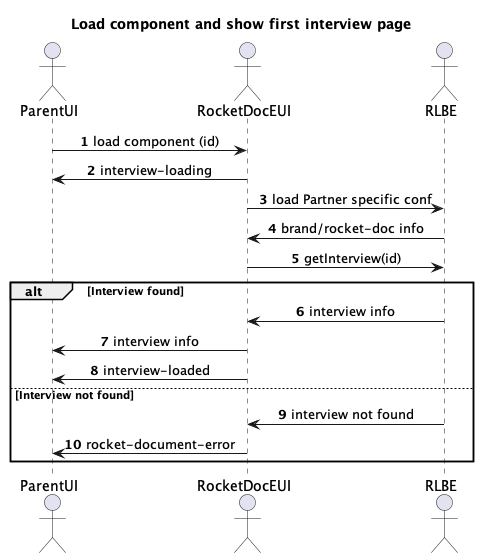
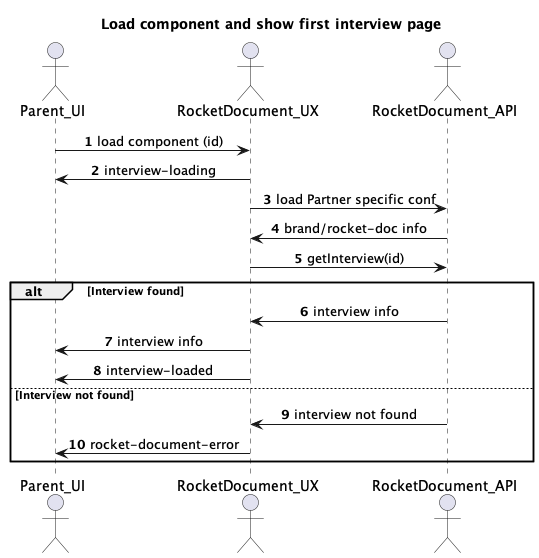
Doc: Change image and improve RocketDocument mentions

diff --git a/pages/ux-component-events.md b/pages/ux-component-events.md
@@ -48,23 +48,23 @@ Once the page loads, the RocketDocument Embedded UX component retrieves the inte
 This section outlines the key events in the sequence diagram that occur when loading the RocketDocument Embedded UX component and displaying the first interview page. Understanding these events is essential for effective integration and error handling, ensuring a smooth user experience.
 
 1. **Load Component (ID)**
-   - **Action:** The `ParentUI` initiates the process by loading the RocketDocument Embedded UX component. This is done by embedding the component on the webpage, usually identified by a unique ID.
-   - **Purpose:** This step starts the RocketDocument Embedded UX component, preparing it to interact with the Rocket Lawyer Backend (RLBE) to fetch the necessary interview data.
+   - **Action:** The `ParentUI` initiates the process by loading the RocketDocument component. This is done by embedding the component on the webpage, usually identified by a unique ID.
+   - **Purpose:** This step starts the RocketDocument component, preparing it to interact with the Rocket Lawyer Backend (RLBE) to fetch the necessary interview data.
 
 2. **interview-loading**
-   - **Action:** Once the RocketDocument Embedded UX component is loaded, it immediately fires the `interview-loading` event.
+   - **Action:** Once the RocketDocument component is loaded, it immediately fires the `interview-loading` event.
    - **Purpose:** This event informs the `ParentUI` that the interview is in the process of being loaded. It is a signal to possibly show a loading indicator or perform other preparatory actions in the UI.
 
 3. **Load Partner Specific Configuration**
-   - **Action:** The RocketDocument Embedded UX requests partner-specific configurations from the RLBE.
+   - **Action:** The RocketDocument requests partner-specific configurations from the RLBE.
    - **Purpose:** This ensures that the UI loads with all the necessary customizations and branding specific to the partner implementing the interview.
 
 4. **Load Brand/Rocket-Doc Information**
    - **Action:** The RLBE responds with the requested partner-specific configurations and branding information.
-   - **Purpose:** This data is essential for personalizing the RocketDocument Embedded UX according to the partner's requirements.
+   - **Purpose:** This data is essential for personalizing the RocketDocument according to the partner's requirements.
 
 5. **Get Interview (ID)**
-   - **Action:** The RocketDocument Embedded UX makes a request to the RLBE to fetch the interview data associated with the provided ID.
+   - **Action:** The RocketDocument makes a request to the RLBE to fetch the interview data associated with the provided ID.
    - **Purpose:** This step retrieves the content and structure of the interview that needs to be displayed to the user.
 
 6. **Interview Info (Found)**
@@ -72,11 +72,11 @@ This section outlines the key events in the sequence diagram that occur when loa
    - **Purpose:** This data includes all the questions and fields required for the interview, which will be displayed to the user.
 
 7. **Interview Info (Received)**
-   - **Action:** The RocketDocument Embedded UX receives the interview information from the RLBE.
+   - **Action:** The RocketDocument receives the interview information from the RLBE.
    - **Purpose:** This marks the successful retrieval of the interview data, and the component is ready to render the first page of the interview.
 
 8. **interview-loaded**
-   - **Action:** The RocketDocument Embedded UX fires the `interview-loaded` event.
+   - **Action:** The RocketDocument fires the `interview-loaded` event.
    - **Purpose:** This event informs the `ParentUI` that the interview has been successfully loaded and is ready to be displayed. The UI can now proceed to show the first page of the interview to the user.
 
 9. **Interview Not Found**
@@ -84,16 +84,16 @@ This section outlines the key events in the sequence diagram that occur when loa
    - **Purpose:** This handles cases where the interview ID provided is incorrect or the interview has been deleted.
 
 10. **rocket-document-error**
-    - **Action:** The RocketDocument Embedded UX fires the `rocket-document-error` event.
+    - **Action:** The RocketDocument fires the `rocket-document-error` event.
     - **Purpose:** This event informs the `ParentUI` that an error occurred while attempting to load the interview. The UI can then display an appropriate error message to the user, indicating that the interview could not be found.
 
 ## Component Details
 
-### `<rocket-document>` Component
-
-This is the only component that this package officially supports.
+This section provides an overview of the `<rocket-document>` component, detailing its attributes and how it integrates with partner applications.
 
 ### Attributes
+
+The `<rocket-document>` component uses several attributes that allow for precise control over how the interview is displayed and managed.
 
 | Attribute       | Description                                                                                                                                                                  |
 |-----------------|------------------------------------------------------------------------------------------------------------------------------------------------------------------------------|
@@ -150,7 +150,7 @@ These are custom events fired by the RocketDocument component to the embedding U
        }
      ```
      
-- **Description:** This is the second event that the RocketDocument Embedded UX fires. This means that the RocketDocument Embedded UX got a response from the RLBE, received a valid interview from the API, and is now rendering the interview in the background.
+- **Description:** This is the second event that the RocketDocument Embedded UX fires. This means that the RocketDocument got a response from the RLBE, received a valid interview from the API, and is now rendering the interview in the background.
 
 #### Event: loading-next-page
 
@@ -165,7 +165,7 @@ These are custom events fired by the RocketDocument component to the embedding U
         }
      ```
      
-- **Description:** This event is fired by the RocketDocument Embedded UX once the user clicks the "Continue" button. This tells the ParentUI that the RocketDocument Embedded UX is aware of the user asking to go to the next page and before calling the RLBE.
+- **Description:** This event is fired by the RocketDocument Embedded UX once the user clicks the "Continue" button. This tells the ParentUI that the RocketDocument is aware of the user asking to go to the next page and before calling the RLBE.
 
 #### Event: loading-previous-page
 
@@ -180,7 +180,7 @@ These are custom events fired by the RocketDocument component to the embedding U
         }
      ```
 
-- **Description:** This event is fired by the RocketDocument Embedded UX once the user clicks the "Back" button. This tells the ParentUI that the RocketDocument Embedded UX is aware of the user asking to go to the previous page and before calling the RLBE.
+- **Description:** This event is fired by the RocketDocument Embedded UX once the user clicks the "Back" button. This tells the ParentUI that the RocketDocument is aware of the user asking to go to the previous page and before calling the RLBE.
 
 #### Event: question-answered
 
@@ -212,7 +212,7 @@ These are custom events fired by the RocketDocument component to the embedding U
         }
      ```
 
-- **Description:** This event is fired by the RocketDocument Embedded UX once it receives a successful response from the RLBE, meaning that all answers were actually saved. This is useful if the RocketDocument Embedded UX is going to show a success message. It is also fired at the last question of the interview since the RocketDocument Embedded UX will receive a response from the RLBE indicating that all answers were saved.
+- **Description:** This event is fired by the RocketDocument Embedded UX once it receives a successful response from the RLBE, meaning that all answers were actually saved. This is useful if the RocketDocument is going to show a success message. It is also fired at the last question of the interview since the RocketDocument will receive a response from the RLBE indicating that all answers were saved.
 
 #### Event: interview-completing
 
@@ -239,7 +239,7 @@ These are custom events fired by the RocketDocument component to the embedding U
         }
      ```
 
-- **Description:** This event is the last event fired by the RocketDocument Embedded UX. It means that the interview is completed and filled with all the info provided by the user. It will also tell the ParentUI that no further processes are running or yet remain to be completed. It is up to the ParentUI to take the user to the next screen since the RocketDocument Embedded UX only fires the event.
+- **Description:** This event is the last event fired by the RocketDocument Embedded UX. It means that the interview is completed and filled with all the info provided by the user. It will also tell the ParentUI that no further processes are running or yet remain to be completed. It is up to the ParentUI to take the user to the next screen since the RocketDocument only fires the event.
 
 #### Event: rocketdocumenterror
 
